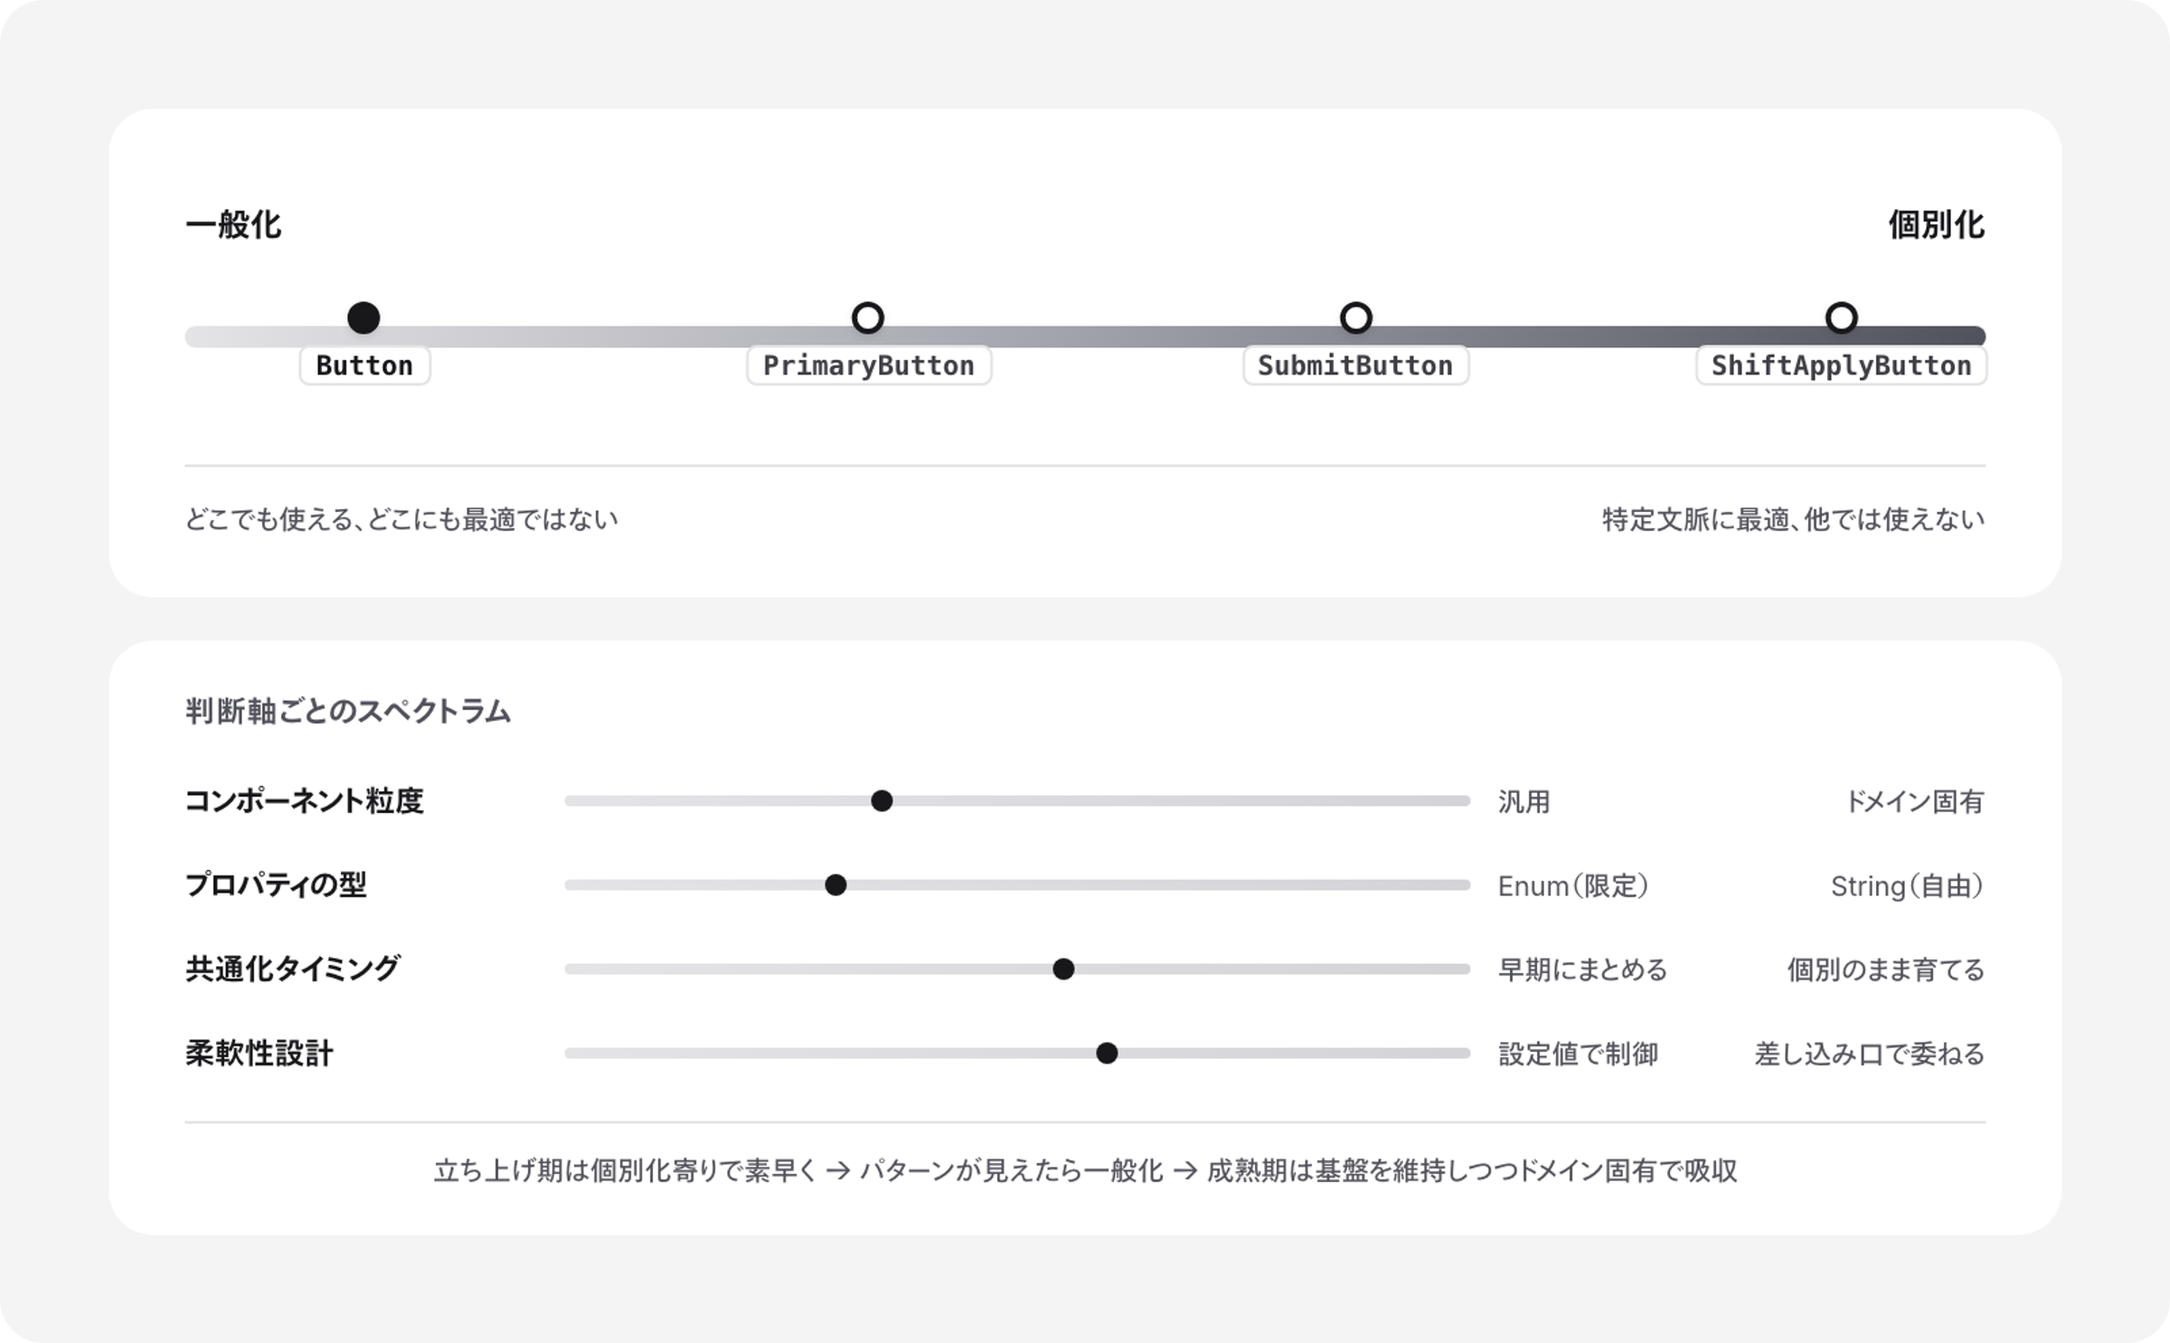
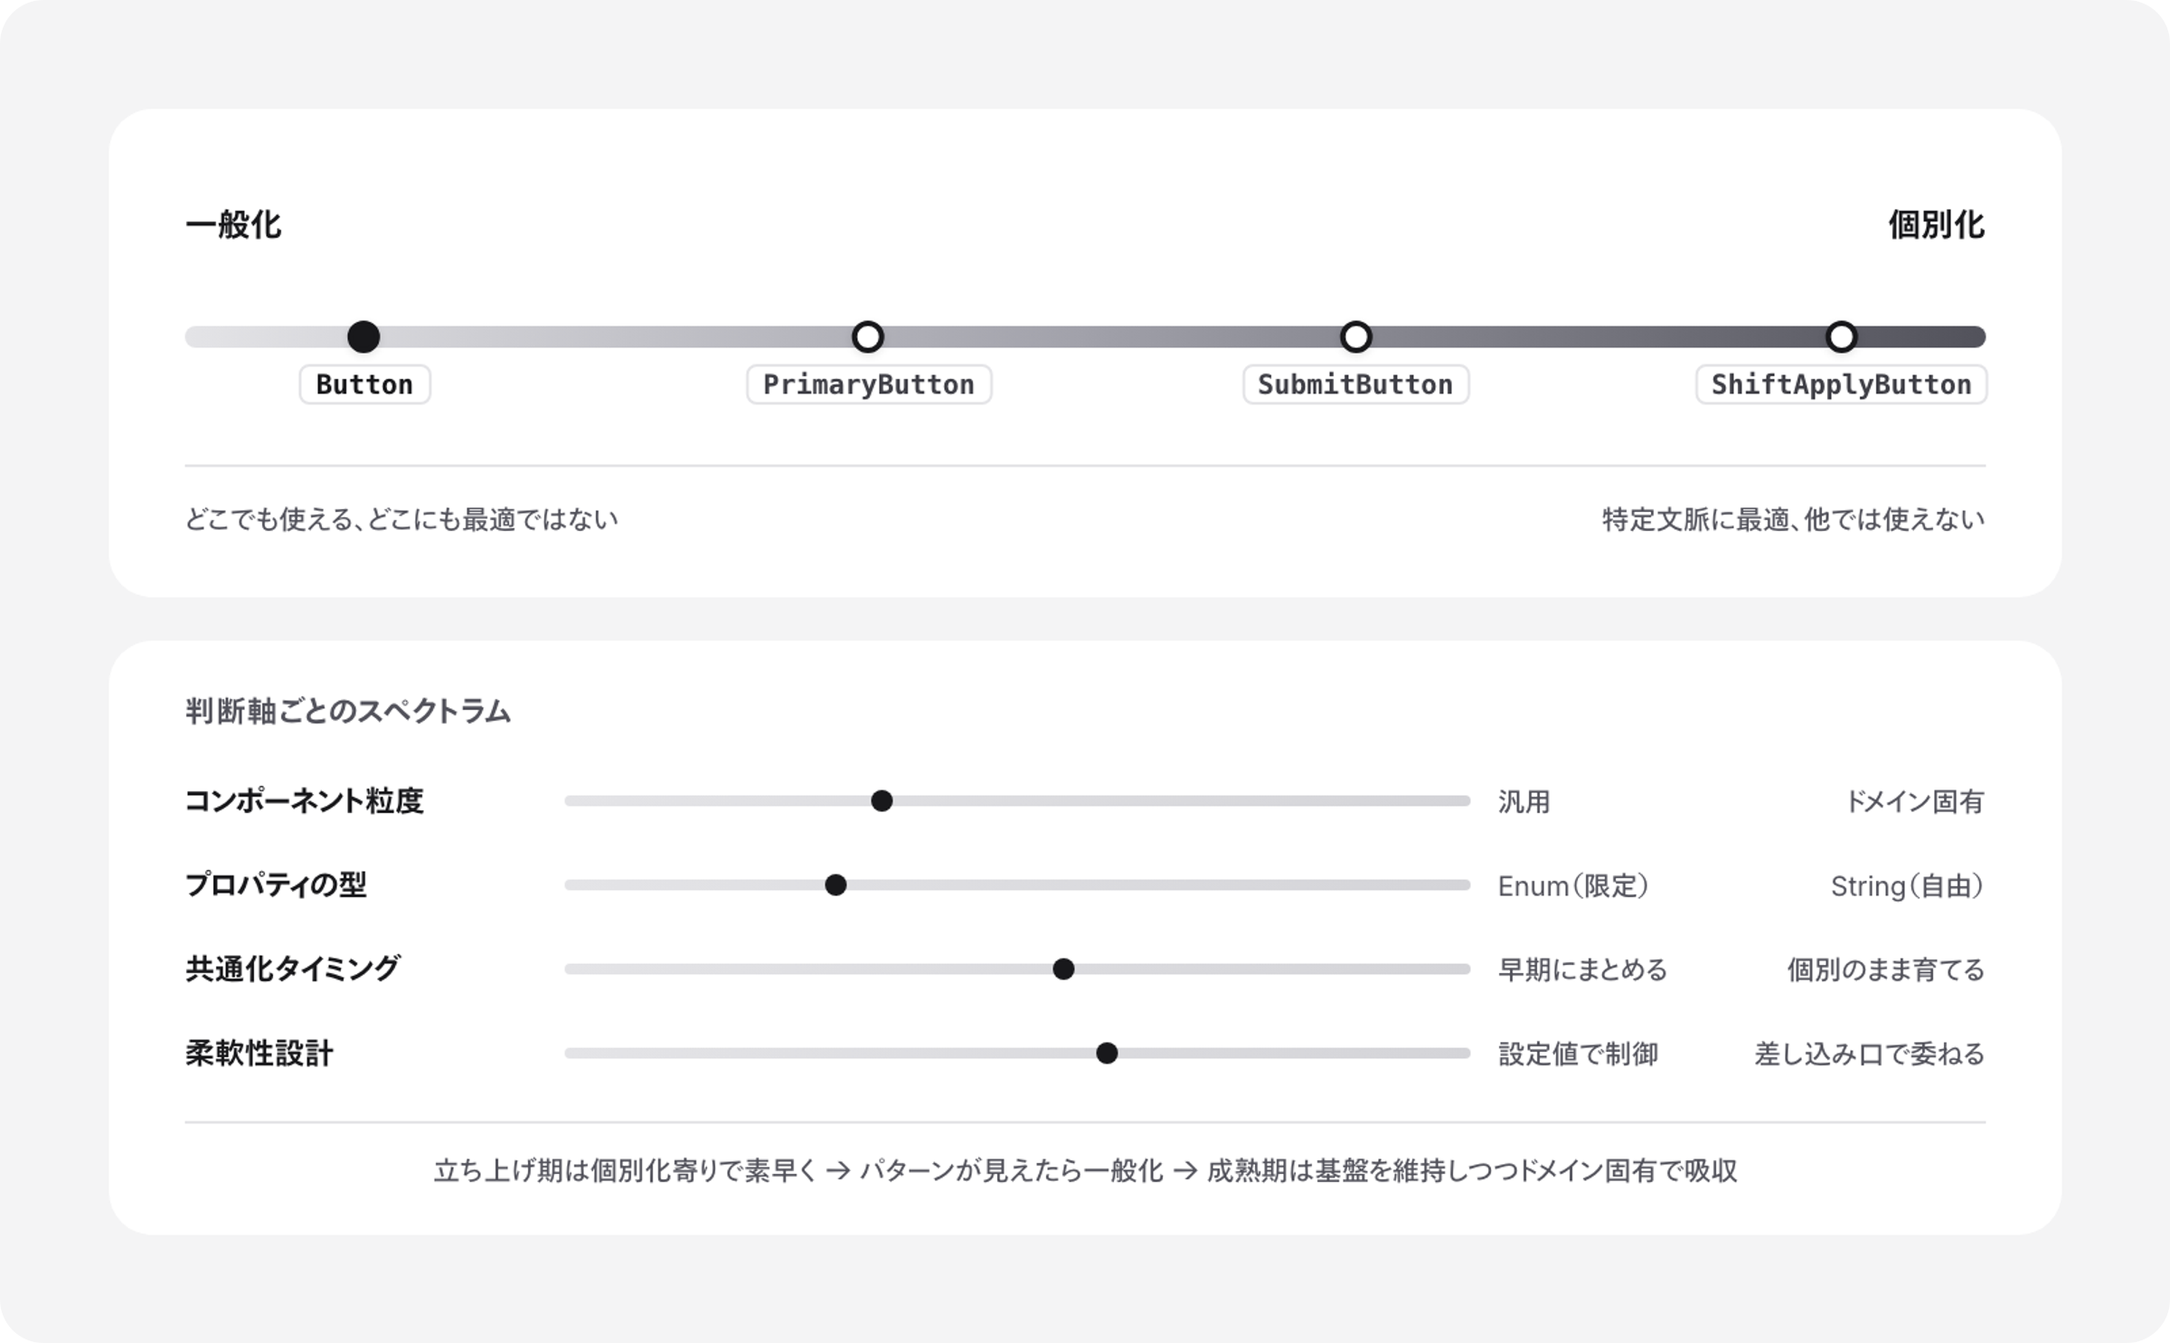
原則冒頭の概要を平易に書き直し、fig-79修正、緊張関係→トレードオフ
- 原則の箇条書き: 英語の専門用語を削除し、まだ未紹介の概念を
  日常語で説明。後半テーマも箇条書きで読者に見通しを提供
- fig-79: マーカーの丸がバーからずれていた問題を修正
  (top: -6 → top: 1)
- 「緊張関係」を文脈に合った表現に置換
  (トレードオフ / どちらに寄せるかという問い / この問い)

diff --git a/illustrations/src/figures/fig-79-generalization-spectrum.tsx b/illustrations/src/figures/fig-79-generalization-spectrum.tsx
@@ -19,7 +19,7 @@ function Marker({ label, position, accent }: MarkerProps) {
       style={{
         position: "absolute",
         left: `${position}%`,
-        top: -6,
+        top: 1,
         transform: "translateX(-50%)",
         display: "flex",
         flexDirection: "column",

diff --git a/books/b62994c6b0b1e9/_component-design-guide-for-designers.md b/books/b62994c6b0b1e9/_component-design-guide-for-designers.md
@@ -94,18 +94,23 @@ Figma（あるいはSketch）のおかげで、デザイナーもコンポーネ
 
 Kevin Muldoonは[What Design Systems Actually Do](https://www.designsystemscollective.com/what-design-systems-actually-do-ea8a3daba32a)の中で、デザインシステムが提供する価値を間接化・カプセル化・制約・意味の符号化・合成・慣習という6つの抽象化を提示しています。この章では、その6つを土台にデザインシステムの考え方を紹介します。これらを押さえておくと、後の章で登場するプラクティスの背景が見通せるようになります。
 
-これらは独立したチェックリストではなく、互いに補強し合い、ときに緊張関係を生む体系です。たとえば、制約は判断の負荷を下げますが、強すぎると合成の自由度を損ないます。カプセル化は複雑さを隠しますが、隠しすぎると慣習の形成を妨げます。こうした絶対的な正解のなさがデザインシステムを難しくしている要因であり、奥深さです。
+これらは独立したチェックリストではなく、互いに補強し合い、ときにトレードオフを生む体系です。たとえば、制約は判断の負荷を下げますが、強すぎると合成の自由度を損ないます。カプセル化は複雑さを隠しますが、隠しすぎると慣習の形成を妨げます。こうした絶対的な正解のなさがデザインシステムを難しくしている要因であり、奥深さです。
 
 まず6つの原則を一覧します。
 
-- **間接化（Indirection）** — 変更を一箇所に集約し、一箇所を直せば全部直る仕組みをつくる
-- **カプセル化（Encapsulation）** — 内部の複雑さを隠し、使う側にはシンプルなインターフェースだけを見せる
-- **制約（Constraint）** — 選択肢を意図的に絞り、判断の負荷を下げる
-- **意味の符号化（Semantic Encoding）** — 見た目ではなく意味で名付け、コンポーネントの役割を言語化する
-- **合成（Composition）** — 小さな部品を組み合わせて、大きなUIを構築する
-- **慣習（Convention）** — 暗黙知を形式化し、誰でも安全に拡張できる土台をつくる
+- **間接化** — 一箇所を直せば全部直る仕組みをつくる
+- **カプセル化** — 複雑さを隠し、使う側にはシンプルな見た目だけを見せる
+- **制約** — 選択肢を意図的に絞り、迷う場面を減らす
+- **意味の符号化** — 見た目ではなく意味で名付ける
+- **合成** — 小さな部品を組み合わせて大きなUIを構築する
+- **慣習** — ルールを明文化し、誰でも安全に拡張できる土台をつくる
 
-これらの原則に加え、初期の選択が後の選択肢を制約する**経路依存性**、そして6つの原則が共通して支える**一貫性の価値**についても扱います。後半では、理想と現実の折り合いとして**意図的な妥協**と**一般化・個別化のバランス**を整理します。
+これらの原則に加え、後半では以下のテーマも扱います。
+
+- **経路依存性** — 最初の選択が後の選択肢を狭めてしまう現象
+- **一貫性の価値** — なぜ「揃えること」がデザインの前提になるのか
+- **意図的な妥協** — 理想通りに進められないとき、場当たりを設計に変える方法
+- **一般化と個別化のバランス** — どこでも使える部品と、特定の場面に最適な部品のどちらに寄せるか
 
 それぞれ順に見ていきましょう。
 
@@ -169,7 +174,7 @@ Nathan Curtisは「[And You Thought Buttons Were Easy?](https://medium.com/eight
 
 [Ross Horbiの試算](https://medium.com/@rosshorbi/how-i-created-a-design-system-for-buttons-cfebbc55106e)によると、とあるボタンの取りうる姿の組み合わせはサイズ4段階 × アイコン有無4パターン × スタイル5種 × 状態5種 × テーマ2種 = 800バリアントに達します。制約なしにすべてを自由設計すると破綻するのは明白です。
 
-ただし、制約が強すぎると例外的なユースケースに対応できなくなります。制約と柔軟性のバランスをどうとるか。この緊張関係は変数の章・状態の章で繰り返し登場します。
+ただし、制約が強すぎると例外的なユースケースに対応できなくなります。制約と柔軟性のバランスをどうとるか。このトレードオフは変数の章・状態の章で繰り返し登場します。
 
 ## 意味の符号化（Semantic Encoding）: 見た目ではなく意味で名付ける
 
@@ -371,7 +376,7 @@ Figmaのコンポーネントネスト（コンポーネントの中にコンポ
 
 一般化とは、さまざまな文脈で使えるよう抽象度を上げることです。`Button` はどんなページでも使えますが、特定のページに最適化されてはいません。個別化とは、特定の文脈に合わせて最適化することです。`ShiftApplyButton` は求人応募画面に完璧にフィットしますが、他の画面では使えません。
 
-この緊張関係は、デザインシステムのあらゆる設計判断に顔を出します。
+このどちらに寄せるかという問いは、デザインシステムのあらゆる設計判断に顔を出します。
 
 - **コンポーネントの粒度**: 汎用コンポーネントとドメインコンポーネントの線引き
 - **プロパティの型**: Enum（選択肢を限定する一般化）とString（自由入力を許す個別化）の選択
@@ -386,7 +391,7 @@ Figmaのコンポーネントネスト（コンポーネントの中にコンポ
 
 最適解はプロダクトのフェーズやチームの規模によって変わります。立ち上げ期は個別化寄りで素早く作り、パターンが見えてきたら一般化する。成熟期には一般化された基盤を維持しつつ、ドメイン固有の要件は個別のコンポーネントで吸収する。
 
-大事なのは、いま自分たちがこのスペクトラムのどこにいるかを自覚し、意図的に選ぶことです。なんとなく共通化する、なんとなく専用のものを作る。この無自覚さが、経路依存性を通じて後から修正しにくい構造を生みます。この緊張関係は以降の章で繰り返し登場しますが、正解がひとつに定まらないからこそ、判断の軸を持っておくことに価値があります。
+大事なのは、いま自分たちがこのスペクトラムのどこにいるかを自覚し、意図的に選ぶことです。なんとなく共通化する、なんとなく専用のものを作る。この無自覚さが、経路依存性を通じて後から修正しにくい構造を生みます。この問いは以降の章で繰り返し登場しますが、正解がひとつに定まらないからこそ、判断の軸を持っておくことに価値があります。
 
 ---
 

diff --git a/books/b62994c6b0b1e9/principles.md b/books/b62994c6b0b1e9/principles.md
@@ -15,18 +15,23 @@ Figma（あるいはSketch）のおかげで、デザイナーもコンポーネ
 
 Kevin Muldoonは[What Design Systems Actually Do](https://www.designsystemscollective.com/what-design-systems-actually-do-ea8a3daba32a)の中で、デザインシステムが提供する価値を間接化・カプセル化・制約・意味の符号化・合成・慣習という6つの抽象化を提示しています。この章では、その6つを土台にデザインシステムの考え方を紹介します。これらを押さえておくと、後の章で登場するプラクティスの背景が見通せるようになります。
 
-これらは独立したチェックリストではなく、互いに補強し合い、ときに緊張関係を生む体系です。たとえば、制約は判断の負荷を下げますが、強すぎると合成の自由度を損ないます。カプセル化は複雑さを隠しますが、隠しすぎると慣習の形成を妨げます。こうした絶対的な正解のなさがデザインシステムを難しくしている要因であり、奥深さです。
+これらは独立したチェックリストではなく、互いに補強し合い、ときにトレードオフを生む体系です。たとえば、制約は判断の負荷を下げますが、強すぎると合成の自由度を損ないます。カプセル化は複雑さを隠しますが、隠しすぎると慣習の形成を妨げます。こうした絶対的な正解のなさがデザインシステムを難しくしている要因であり、奥深さです。
 
 まず6つの原則を一覧します。
 
-- **間接化（Indirection）** — 変更を一箇所に集約し、一箇所を直せば全部直る仕組みをつくる
-- **カプセル化（Encapsulation）** — 内部の複雑さを隠し、使う側にはシンプルなインターフェースだけを見せる
-- **制約（Constraint）** — 選択肢を意図的に絞り、判断の負荷を下げる
-- **意味の符号化（Semantic Encoding）** — 見た目ではなく意味で名付け、コンポーネントの役割を言語化する
-- **合成（Composition）** — 小さな部品を組み合わせて、大きなUIを構築する
-- **慣習（Convention）** — 暗黙知を形式化し、誰でも安全に拡張できる土台をつくる
+- **間接化** — 一箇所を直せば全部直る仕組みをつくる
+- **カプセル化** — 複雑さを隠し、使う側にはシンプルな見た目だけを見せる
+- **制約** — 選択肢を意図的に絞り、迷う場面を減らす
+- **意味の符号化** — 見た目ではなく意味で名付ける
+- **合成** — 小さな部品を組み合わせて大きなUIを構築する
+- **慣習** — ルールを明文化し、誰でも安全に拡張できる土台をつくる
 
-これらの原則に加え、初期の選択が後の選択肢を制約する**経路依存性**、そして6つの原則が共通して支える**一貫性の価値**についても扱います。後半では、理想と現実の折り合いとして**意図的な妥協**と**一般化・個別化のバランス**を整理します。
+これらの原則に加え、後半では以下のテーマも扱います。
+
+- **経路依存性** — 最初の選択が後の選択肢を狭めてしまう現象
+- **一貫性の価値** — なぜ「揃えること」がデザインの前提になるのか
+- **意図的な妥協** — 理想通りに進められないとき、場当たりを設計に変える方法
+- **一般化と個別化のバランス** — どこでも使える部品と、特定の場面に最適な部品のどちらに寄せるか
 
 それぞれ順に見ていきましょう。
 
@@ -90,7 +95,7 @@ Nathan Curtisは「[And You Thought Buttons Were Easy?](https://medium.com/eight
 
 [Ross Horbiの試算](https://medium.com/@rosshorbi/how-i-created-a-design-system-for-buttons-cfebbc55106e)によると、とあるボタンの取りうる姿の組み合わせはサイズ4段階 × アイコン有無4パターン × スタイル5種 × 状態5種 × テーマ2種 = 800バリアントに達します。制約なしにすべてを自由設計すると破綻するのは明白です。
 
-ただし、制約が強すぎると例外的なユースケースに対応できなくなります。制約と柔軟性のバランスをどうとるか。この緊張関係は変数の章・状態の章で繰り返し登場します。
+ただし、制約が強すぎると例外的なユースケースに対応できなくなります。制約と柔軟性のバランスをどうとるか。このトレードオフは変数の章・状態の章で繰り返し登場します。
 
 ## 意味の符号化（Semantic Encoding）: 見た目ではなく意味で名付ける
 
@@ -292,7 +297,7 @@ Figmaのコンポーネントネスト（コンポーネントの中にコンポ
 
 一般化とは、さまざまな文脈で使えるよう抽象度を上げることです。`Button` はどんなページでも使えますが、特定のページに最適化されてはいません。個別化とは、特定の文脈に合わせて最適化することです。`ShiftApplyButton` は求人応募画面に完璧にフィットしますが、他の画面では使えません。
 
-この緊張関係は、デザインシステムのあらゆる設計判断に顔を出します。
+このどちらに寄せるかという問いは、デザインシステムのあらゆる設計判断に顔を出します。
 
 - **コンポーネントの粒度**: 汎用コンポーネントとドメインコンポーネントの線引き
 - **プロパティの型**: Enum（選択肢を限定する一般化）とString（自由入力を許す個別化）の選択
@@ -307,7 +312,7 @@ Figmaのコンポーネントネスト（コンポーネントの中にコンポ
 
 最適解はプロダクトのフェーズやチームの規模によって変わります。立ち上げ期は個別化寄りで素早く作り、パターンが見えてきたら一般化する。成熟期には一般化された基盤を維持しつつ、ドメイン固有の要件は個別のコンポーネントで吸収する。
 
-大事なのは、いま自分たちがこのスペクトラムのどこにいるかを自覚し、意図的に選ぶことです。なんとなく共通化する、なんとなく専用のものを作る。この無自覚さが、経路依存性を通じて後から修正しにくい構造を生みます。この緊張関係は以降の章で繰り返し登場しますが、正解がひとつに定まらないからこそ、判断の軸を持っておくことに価値があります。
+大事なのは、いま自分たちがこのスペクトラムのどこにいるかを自覚し、意図的に選ぶことです。なんとなく共通化する、なんとなく専用のものを作る。この無自覚さが、経路依存性を通じて後から修正しにくい構造を生みます。この問いは以降の章で繰り返し登場しますが、正解がひとつに定まらないからこそ、判断の軸を持っておくことに価値があります。
 
 ---
 
